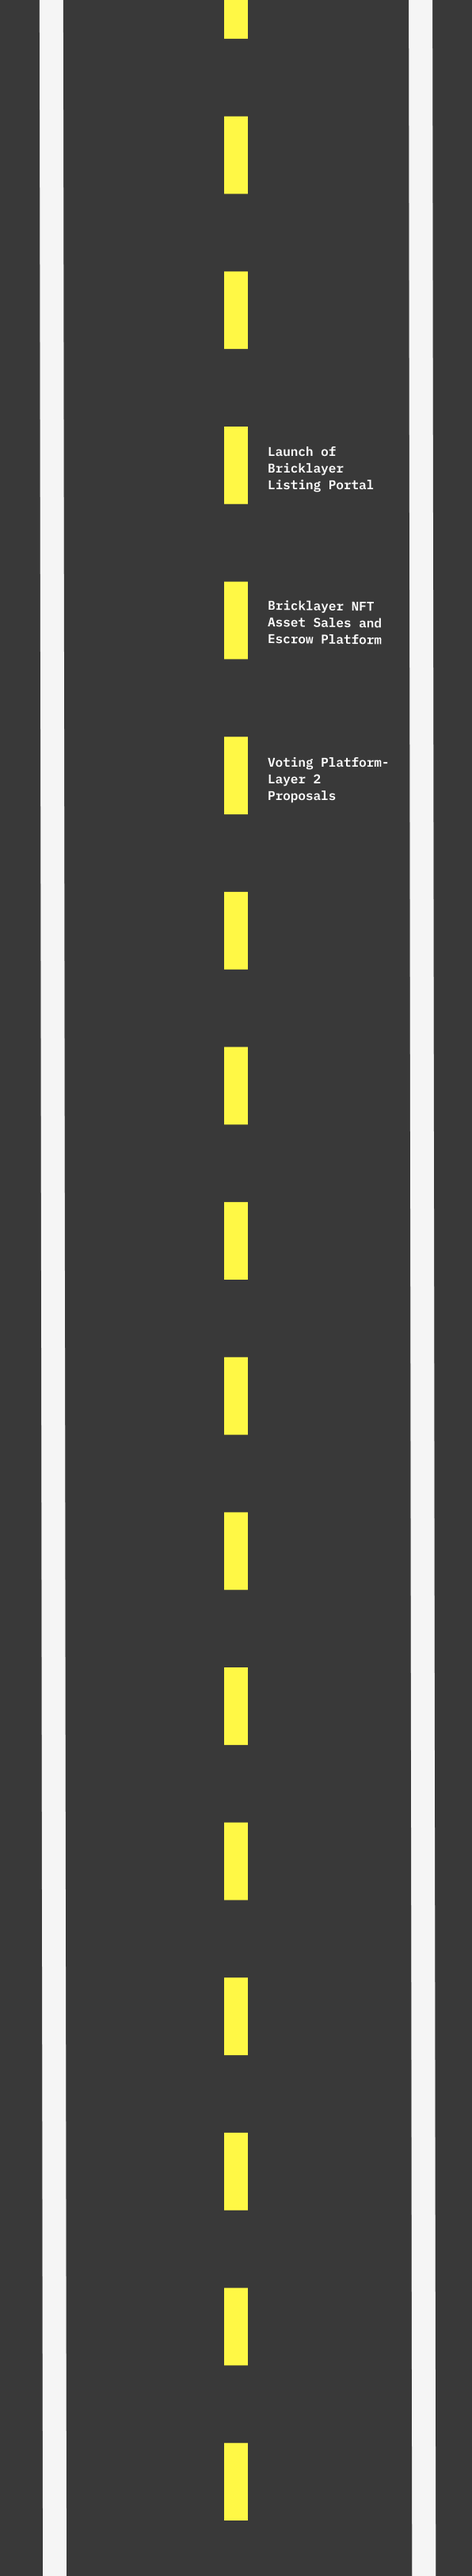
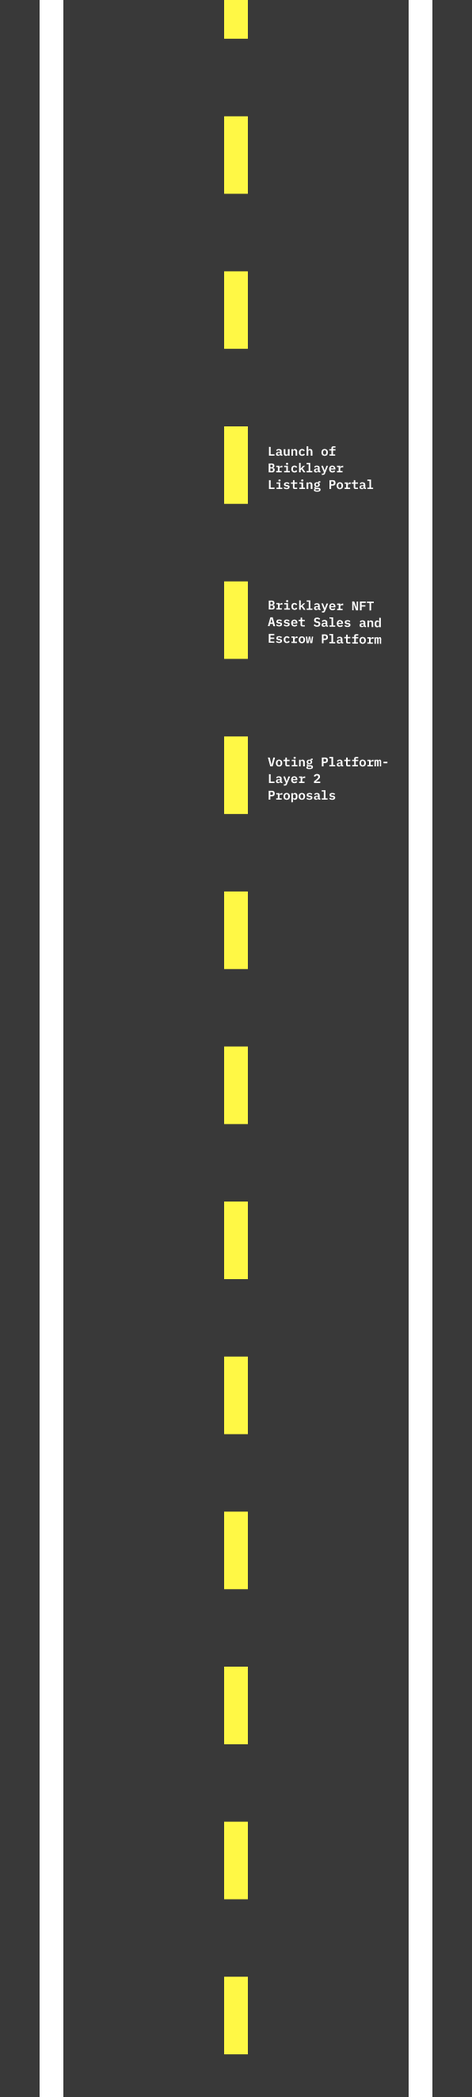
Roadmap finshied

diff --git a/src/app/roadmap/page.js b/src/app/roadmap/page.js
@@ -81,7 +81,7 @@ export default function useRoadmap() {
         switch (activeYear) {
             case 1:
                 return (
-                    <div className="flex justify-center min-[680px]:w-[580px]">
+                    <div className="flex justify-center ">
                         <img
                             className="invisible "
                             src="/bg-images/road-year1.png"
@@ -117,7 +117,7 @@ export default function useRoadmap() {
                     <div className="roadmap-title fmb text-5xl sm:text-7xl text-center text-shadow sm:mt-20 mt-24 z-10">
                         ROADMAP
                     </div>
-                    <div className="sm:mt-[140px] mt-[160px]">
+                    <div className="sm:mt-[150px] mt-[160px]">
                         <div className="flex justify-center md:gap-6 gap-4 py-4 mx-5 text-sm md:text-xs ">
                             <button
                                 className={`bg-transparent hover:bg-[#E26E5D] border-3 border-white hover:border-[#E26E5D] fmb p-2 w-32 text-sm sm:w-auto sm:text-base ${
